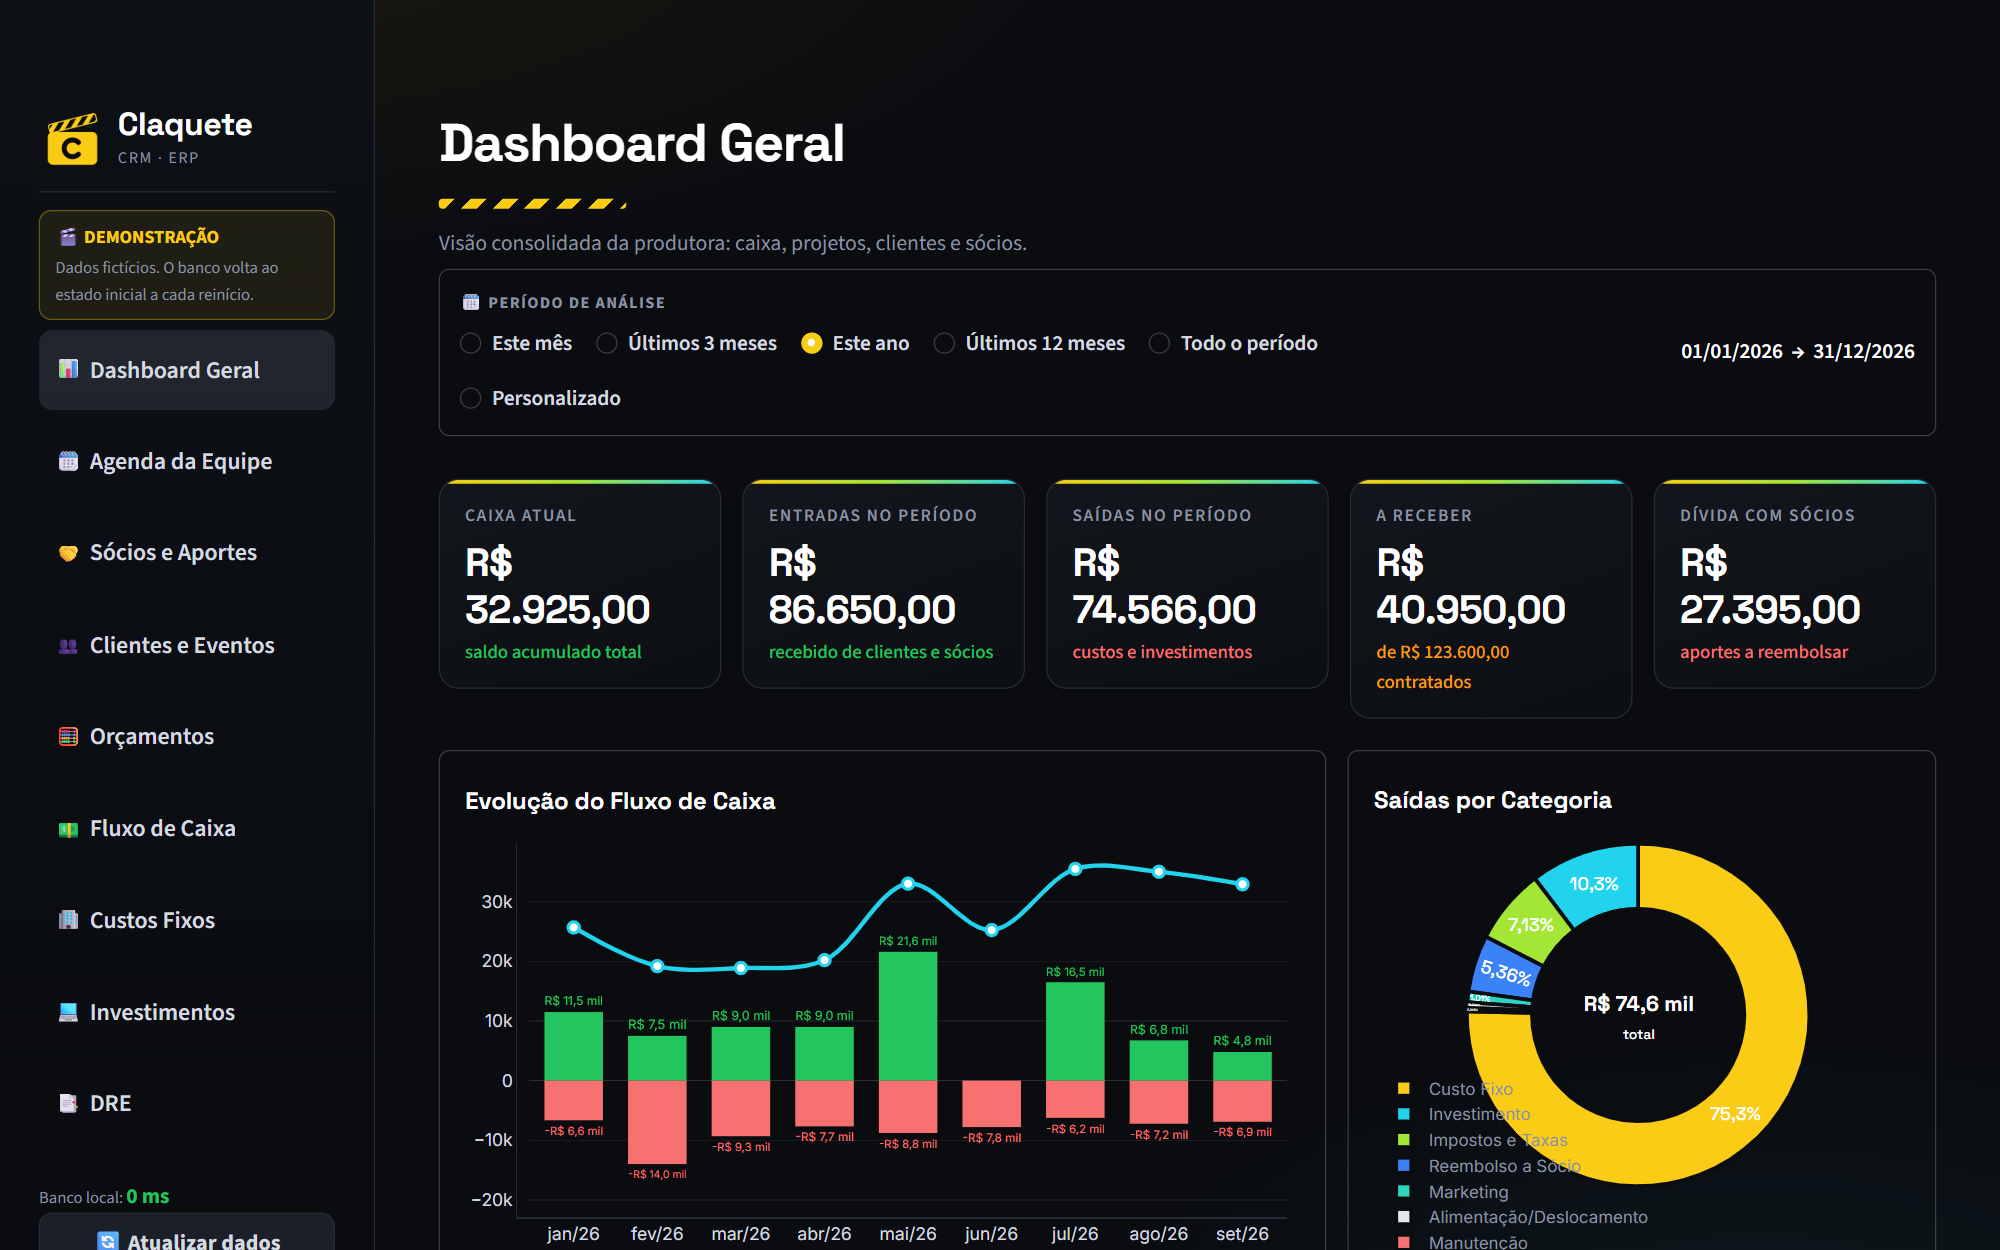
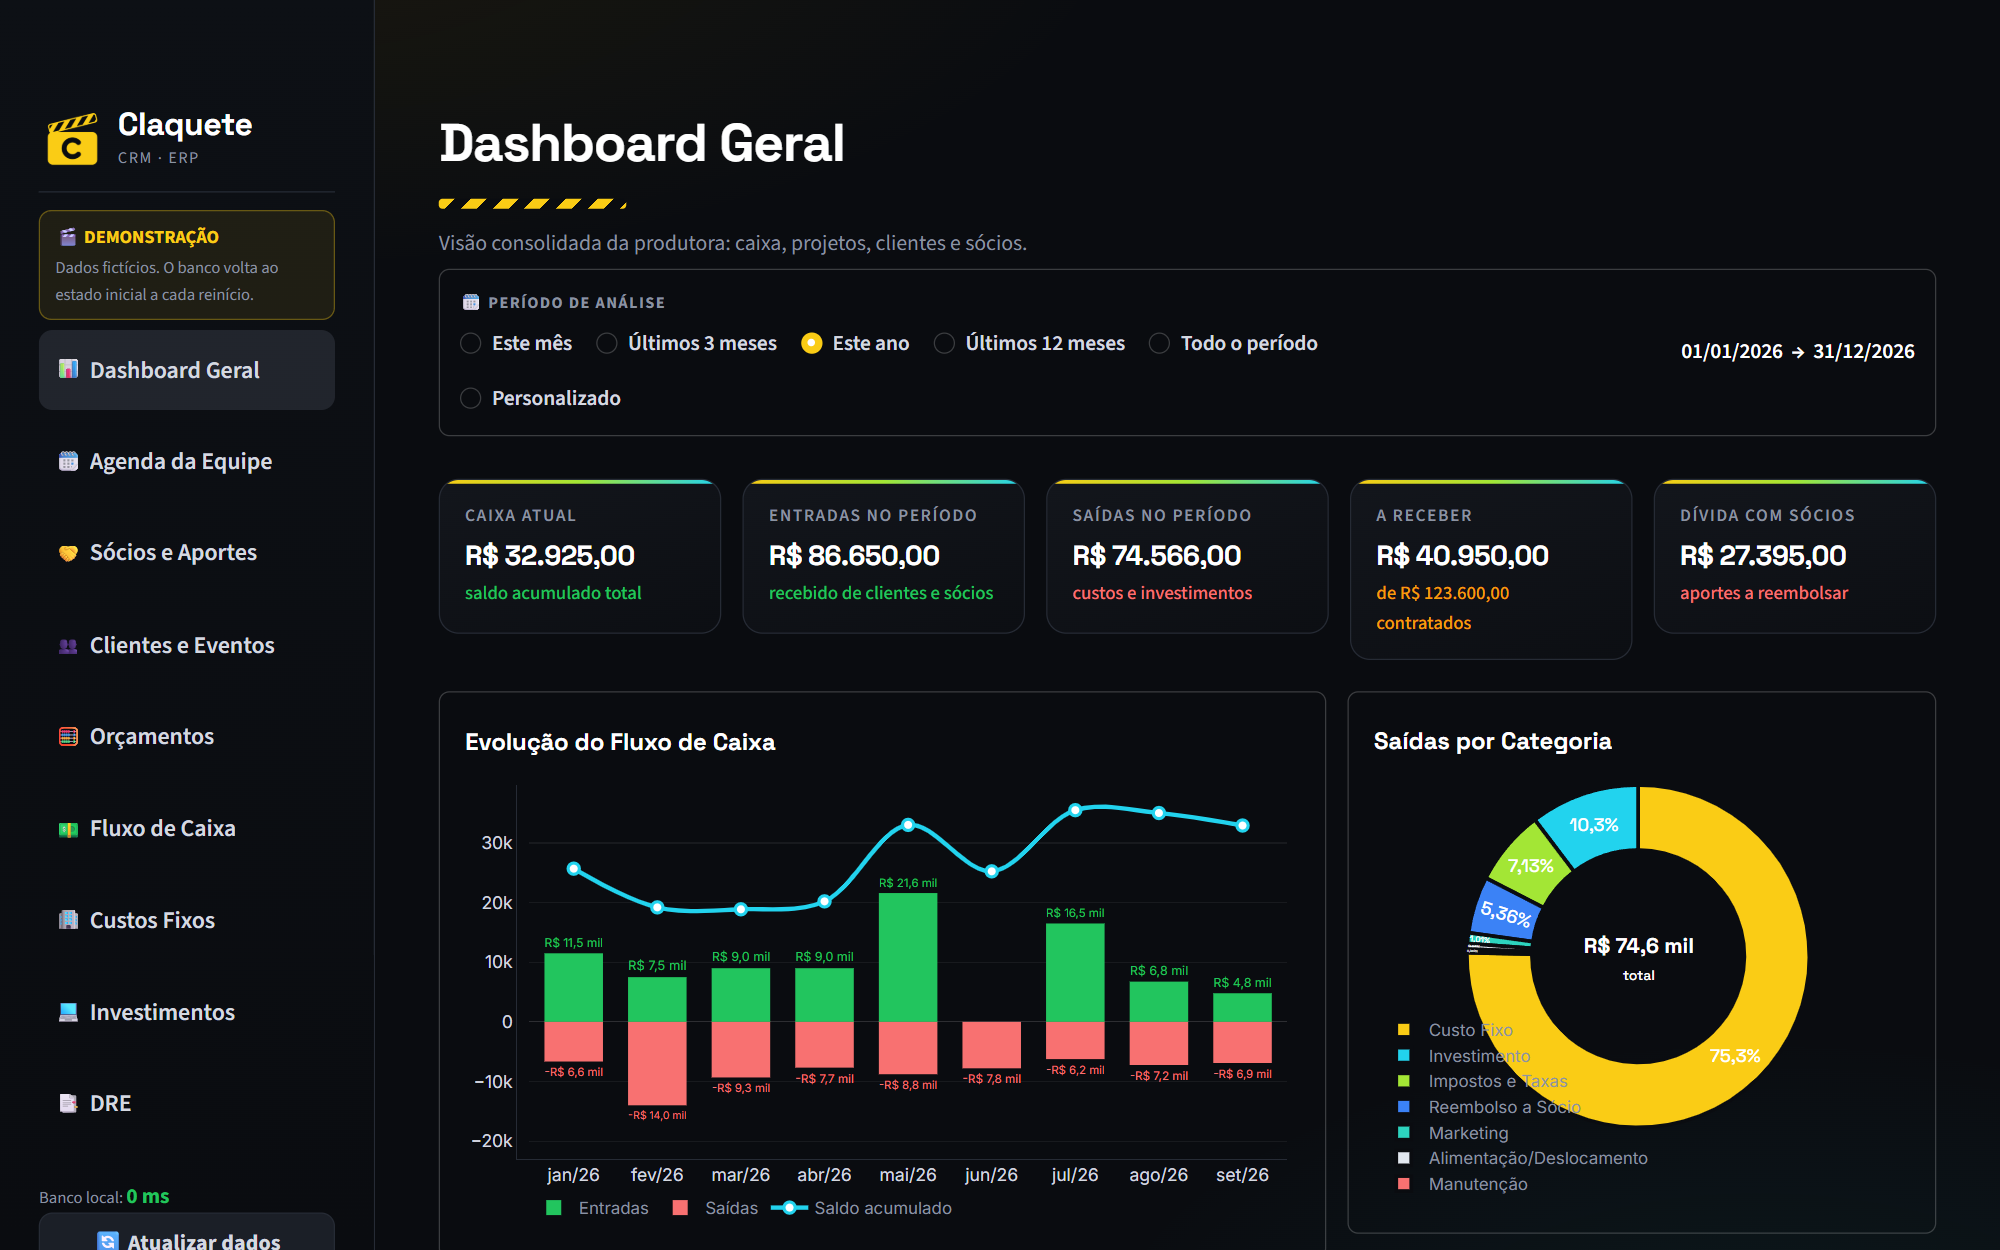
Evita quebra de linha nos valores dos cards de KPI
Em telas de notebook (1280 a 1600 px) os valores dos cards, como
"R$ 32.925,00", quebravam em duas linhas. O tamanho da fonte agora
acompanha a largura do próprio card (container query, unidade cqi) e o
valor não quebra mais. Testado de 390 a 1920 px nas 8 telas com cards:
de 45 valores quebrados para 0. Cabe até "-R$ 1.234.567,89".

Refaz o print do dashboard e a imagem de prévia social, que mostravam
o problema.

diff --git a/ui/theme.py b/ui/theme.py
@@ -278,10 +278,14 @@ def injetar_css() -> None:
             text-transform: uppercase; letter-spacing: 0.09em;
             font-weight: 600; margin-bottom: 8px;
         }}
+        /* O valor acompanha a largura do próprio card (unidade cqi), para
+           "R$ 123.456,78" caber numa linha só também em notebooks, onde cinco
+           cards lado a lado ficam estreitos. */
+        .kpi-card {{ container-type: inline-size; }}
         .kpi-card .kpi-valor {{
             font-family: 'Space Grotesk', sans-serif; font-weight: 700;
-            font-size: 1.85rem; color: {BRANCO}; line-height: 1.15;
-            letter-spacing: -0.02em;
+            font-size: clamp(1.05rem, 12cqi, 1.85rem); color: {BRANCO}; line-height: 1.15;
+            letter-spacing: -0.02em; white-space: nowrap;
         }}
         .kpi-card .kpi-subtitulo {{ font-size: 0.88rem; margin-top: 5px; font-weight: 500; }}
 
